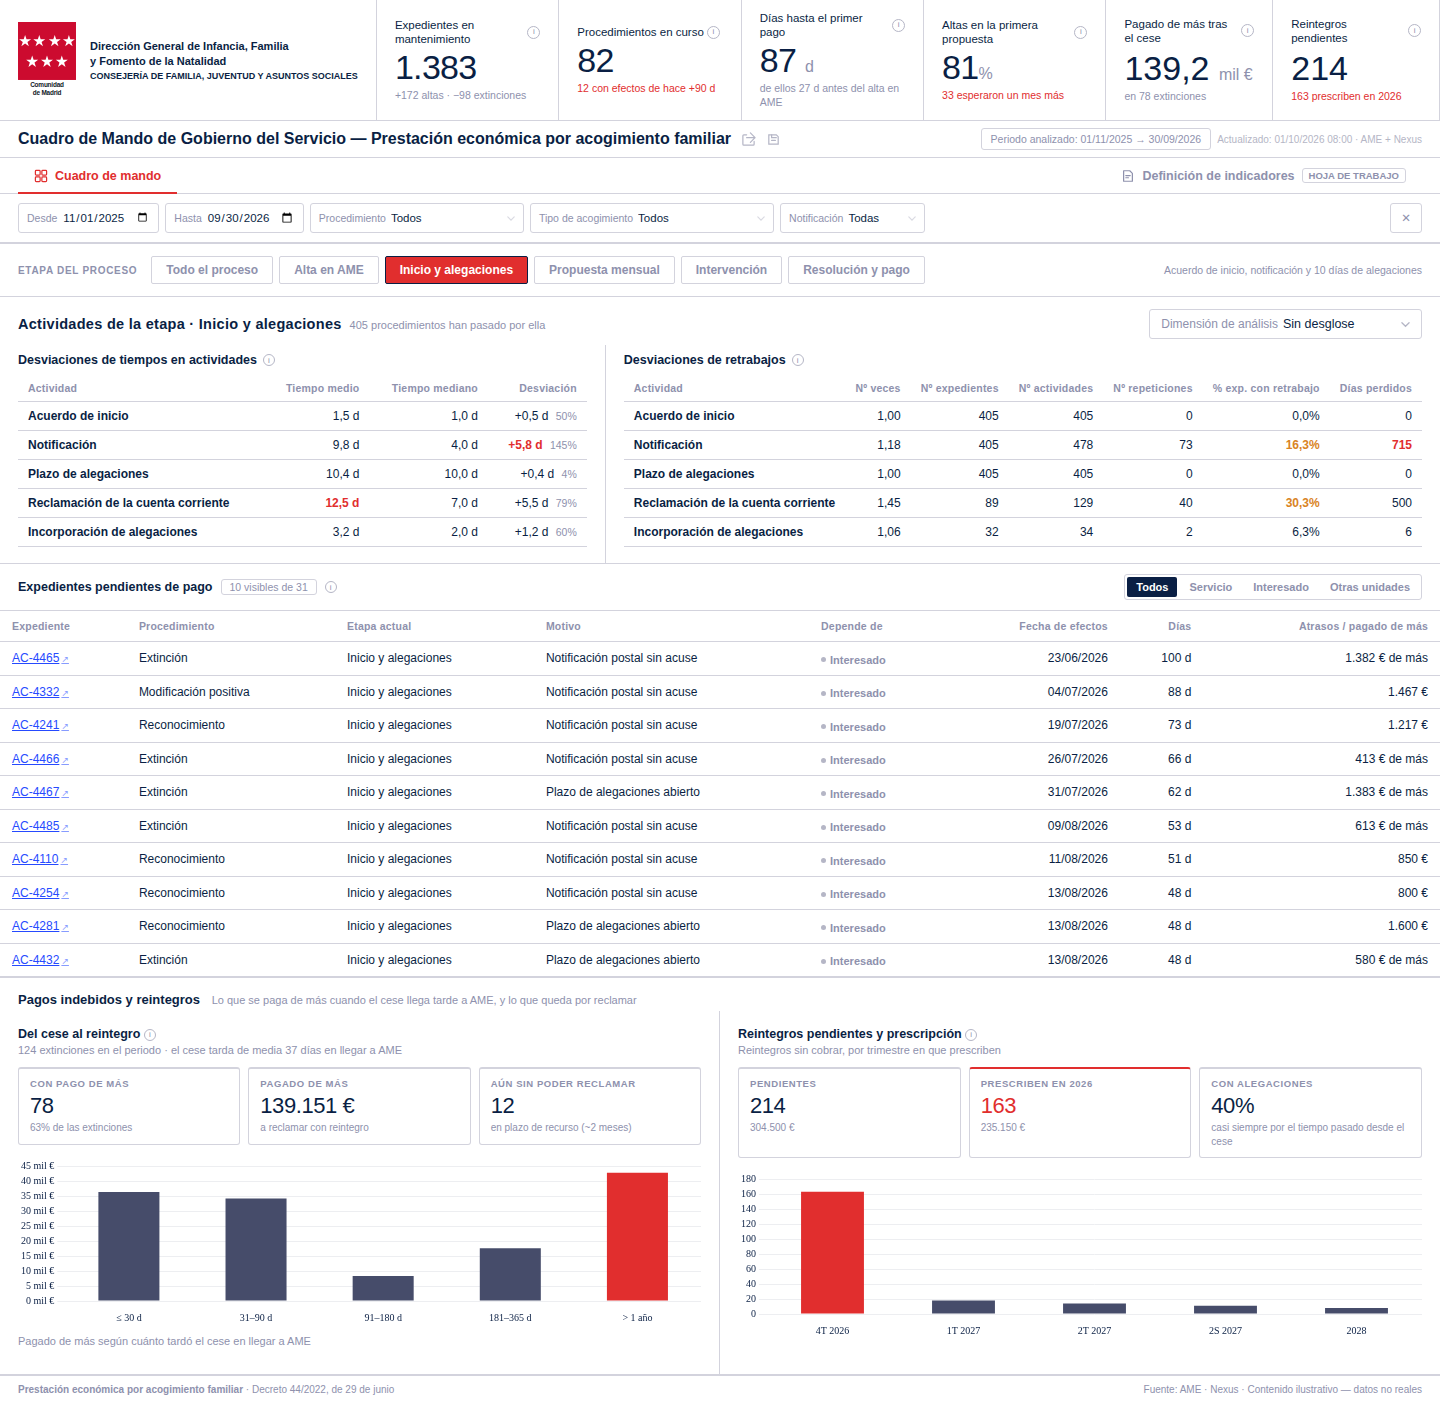
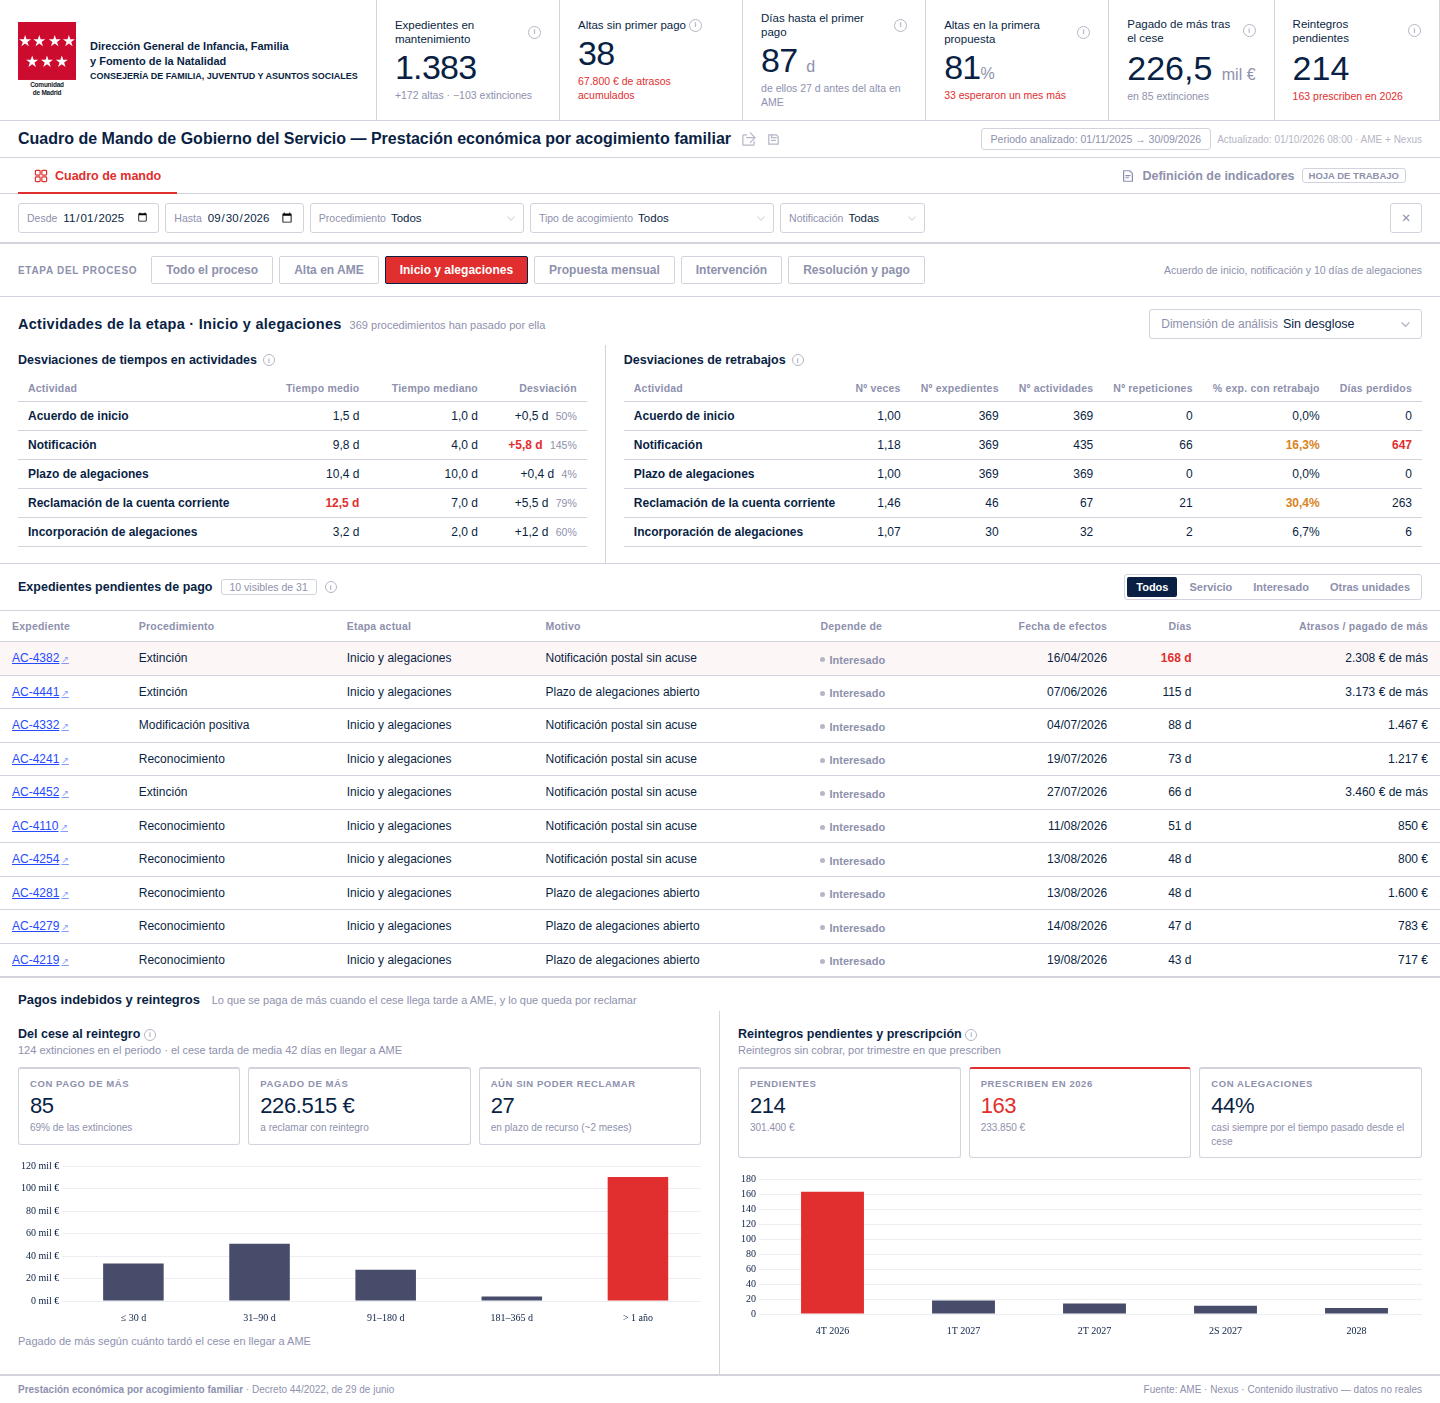
Acogimiento v2: auditoría (KPI de altas sin primer pago, actividades coherentes con el gráfico, reintegros en la propuesta, volúmenes del servicio)
Claude-Session: https://claude.ai/code/session_012PCcGQXYr4PR8xb2pBrhox

diff --git a/mockups/MockupAcogimiento_v2.html b/mockups/MockupAcogimiento_v2.html
@@ -1058,7 +1058,7 @@ const IMP={'Carácter general':500,'Carácter especial':1000,'Programa de urgenc
 const EXP=[];
 (function(){
   let id=4100;
-  const VOL={rec:210,mpos:46,mneg:28,ext:124};
+  const VOL={rec:210,mpos:24,mneg:12,ext:124};
   const T0=0, T1=Date.UTC(2025,10,1);
   Object.keys(VOL).forEach(proc=>{
     for(let i=0;i<VOL[proc];i++){
@@ -1108,7 +1108,7 @@ function limpiar(){ ['fProc','fTipo','fNot'].forEach(i=>$(i).value=''); $('fIni'
 /* ── cabecera ── */
 const TIP={
  'Expedientes en mantenimiento':'Expedientes que cobran la prestación cada mes sin ningún procedimiento abierto. Debajo, las altas y extinciones resueltas en el periodo.',
- 'Procedimientos en curso':'Reconocimientos, modificaciones y extinciones abiertos en AME a la fecha de corte. Debajo, los que tienen la fecha de efectos de hace más de 90 días: son los que más atrasos o pagos de más acumulan.',
+ 'Altas sin primer pago':'Reconocimientos ya en AME que todavía no han cobrado ninguna mensualidad. Debajo, los atrasos que acumulan desde su fecha de efectos: es lo que se pagará de golpe en la primera nómina y lo que descuadra el presupuesto.',
  'Días hasta el primer pago':'Días desde la fecha de efectos del acogimiento hasta el primer pago, en las altas ya pagadas. Debajo, cuántos de esos días pasaron antes de que el alta llegara a AME, que es la parte que graba Protección.',
  'Altas en la primera propuesta':'Altas que entraron en la primera propuesta mensual posible. Las demás esperaron un mes más, casi siempre porque la cuenta corriente no llegó antes del cierre.',
  'Pagado de más tras el cese':'Importe pagado entre la fecha de efectos del cese y su grabación en AME, en las extinciones del periodo. Es lo que después hay que reclamar con un reintegro.',
@@ -1121,14 +1121,14 @@ function renderHdr(P){
   const share={'Carácter general':.6,'Carácter especial':.13,'Programa de urgencia':.27};
   const mant=Math.round(1383*(f.tipo?share[f.tipo]:1));
   const altas=recFin.length, bajas=P.filter(e=>e.proc==='ext'&&e.fin).length;
-  const cur=P.filter(e=>!e.fin), viejos=cur.filter(e=>(CORTE-e.efectos)/DIA>90).length;
+  const pend=rec.filter(e=>!e.fin), atr=pend.reduce((a,e)=>a+(CORTE-e.efectos)/DIA/30*e.imp,0);
   const dias=recFin.length? recFin.reduce((a,e)=>a+e.t.reduce((x,y)=>x+y,0),0)/recFin.length : 0;
   const antes=recFin.length? recFin.reduce((a,e)=>a+e.t[0],0)/recFin.length : 0;
   const prim=recFin.length? recFin.filter(e=>!e.sinCuenta).length/recFin.length*100 : 0;
   const aplaz=recFin.filter(e=>e.sinCuenta).length;
   $('kpiGlobal').innerHTML=
     ks('Expedientes en mantenimiento',nfmt(mant),'na',`+${nfmt(altas)} altas · −${nfmt(bajas)} extinciones`)+
-    ks('Procedimientos en curso',nfmt(cur.length),viejos?'bad':'na',viejos?`${nfmt(viejos)} con efectos de hace +90 d`:'ninguno con efectos de hace +90 d')+
+    ks('Altas sin primer pago',nfmt(pend.length),pend.length?'bad':'na',pend.length?`${eur(Math.round(atr/100)*100)} de atrasos acumulados`:'')+
     ks('Días hasta el primer pago',dias?Math.round(dias)+' <span class="u">d</span>':'—','na',dias?`de ellos ${Math.round(antes)} d antes del alta en AME`:'')+
     ks('Altas en la primera propuesta',recFin.length?Math.round(prim)+'<span class="u">%</span>':'—',aplaz?'bad':'na',aplaz?`${nfmt(aplaz)} esperaron un mes más`:'');
   const ext=P.filter(e=>e.proc==='ext'), ind=ext.filter(e=>e.indeb>0);
@@ -1153,13 +1153,15 @@ const chT=new Chart($('cTiempo'),{type:'bar',data:{labels:TRAMOS,datasets:[
     scales:{x:{...axis,stacked:true,grid:{display:false},ticks:{...axis.ticks,maxRotation:0,autoSkip:false,font:{family:'Inter',size:9.5}}},
             y:{...axis,stacked:true,ticks:{...axis.ticks,callback:v=>v+' d'}}}}});
 const MESES=['Abr','May','Jun','Jul','Ago','Sep'], MES0=Date.UTC(2026,3,1);
-const PCOL={rec:SLA,mpos:GRY,mneg:GRY2,ext:TEAL};
+const PCOL={rec:SLA,mpos:GRY,mneg:GRY2,ext:TEAL,rein:ORA};
 const chP=new Chart($('cProp'),{data:{labels:MESES,datasets:[
   ...Object.keys(PROC_N).map(k=>({type:'bar',label:PROC_N[k],data:[],backgroundColor:PCOL[k],stack:'p',barPercentage:.6,order:2})),
+  {type:'bar',label:'Reintegro',data:[],backgroundColor:PCOL.rein,stack:'p',barPercentage:.6,order:2},
   {type:'line',label:'Altas que perdieron la propuesta anterior',data:[],borderColor:RED,backgroundColor:RED,borderWidth:2,pointRadius:3,tension:.3,order:1}]},
   options:{...baseOpts,interaction:{mode:'index',intersect:false},
     scales:{x:{...axis,stacked:true,grid:{display:false}},y:{...axis,stacked:true}}}});
 $('c2Leg').innerHTML=Object.keys(PROC_N).map(k=>`<div class="leg"><div class="leg-sq" style="background:${PCOL[k]};"></div>${PROC_N[k]}</div>`).join('')+
+  `<div class="leg"><div class="leg-sq" style="background:${PCOL.rein};"></div>Reintegro</div>`+
   `<div class="leg"><div class="leg-ln" style="background:${RED};"></div>Altas que perdieron la propuesta anterior</div>`;
 
 function renderAll(P){
@@ -1175,9 +1177,12 @@ function renderAll(P){
   /* propuestas de abril a septiembre */
   const mesDe=t=>{const d=new Date(t);return (d.getUTCFullYear()-2026)*12+d.getUTCMonth()-3;};
   Object.keys(PROC_N).forEach((k,d)=>{ chP.data.datasets[d].data=MESES.map((_,j)=>P.filter(e=>e.proc===k&&e.etapa>3&&mesDe(e.prop)===j).length); });
-  chP.data.datasets[4].data=MESES.map((_,j)=>P.filter(e=>e.sinCuenta&&e.etapa>3&&mesDe(e.prop)===j).length);
+  /* el reintegro se inicia en la propuesta siguiente a que venza el plazo de recurso de la extinción (~2 meses) */
+  const finDe=e=>e.alta+e.t.slice(1).reduce((a,b)=>a+b,0)*DIA;
+  chP.data.datasets[4].data=MESES.map((_,j)=>P.filter(e=>e.indeb>0&&e.fin&&mesDe(finDe(e)+60*DIA)===j).length);
+  chP.data.datasets[5].data=MESES.map((_,j)=>P.filter(e=>e.sinCuenta&&e.etapa>3&&mesDe(e.prop)===j).length);
   chP.update();
-  const ult=chP.data.datasets.slice(0,4).reduce((a,d)=>a+d.data[5],0);
+  const ult=chP.data.datasets.slice(0,5).reduce((a,d)=>a+d.data[5],0);
   $('c2Sub').textContent=`${ult} procedimientos en la propuesta de septiembre · cierre los primeros días de cada mes`;
 }
 
@@ -1210,17 +1215,17 @@ document.querySelectorAll('#respTabs button').forEach(b=>b.onclick=()=>{respKey=
 /* ── actividades por etapa ── */
 /* [actividad, tiempo medio, tiempo mediano, % de expedientes que pasan, veces por expediente, repeticiones por expediente afectado] */
 const ACT={
-  alta:[['Grabación del alta en AME (Protección)',34.0,9.0,1,1.00,1],['Aviso por correo al servicio',1.2,1.0,1,1.00,1],
+  alta:[['Grabación del alta en AME (Protección)',0,0,1,1.00,1,'t0'],['Aviso por correo al servicio',1.2,1.0,1,1.00,1],
         ['Revisión del expediente',2.6,2.0,1,1.12,1.3],['Recálculo manual del importe',1.8,1.0,.14,1.35,1.4]],
   inicio:[['Acuerdo de inicio',1.5,1.0,1,1.00,1],['Notificación',9.8,4.0,1,1.18,1.1],['Plazo de alegaciones',10.4,10.0,1,1.00,1],
-          ['Reclamación de la cuenta corriente',12.5,7.0,.22,1.45,1.5],['Incorporación de alegaciones',3.2,2.0,.08,1.05,1]],
-  propuesta:[['Expediente completo (borrador)',1.4,1.0,1,1.03,1],['Validación de terceros en Nexus',2.1,1.0,.55,1.08,4.0],
-             ['Generación del documento D',1.0,1.0,.55,1.00,1],['Espera al cierre de la propuesta',14.6,12.0,1,1.00,1],
-             ['Paso a la propuesta siguiente',30.0,30.0,.12,1.10,2.0]],
+          ['Reclamación de la cuenta corriente',12.5,7.0,.22,1.45,1.5,'rec'],['Incorporación de alegaciones',3.2,2.0,.08,1.05,1]],
+  propuesta:[['Expediente completo (borrador)',1.4,1.0,1,1.03,1],['Validación de terceros en Nexus',2.1,1.0,1,1.08,4.0,'rec'],
+             ['Generación del documento D',1.0,1.0,1,1.00,1,'rec'],['Espera al cierre de la propuesta',0,0,1,1.00,1,'t3'],
+             ['Espera a la propuesta siguiente (sin cuenta a tiempo)',30.0,30.0,1,1.22,1,'rec']],
   interv:[['Envío a Intervención',2.2,2.0,1,1.00,1],['Fiscalización del borrador',5.8,5.0,1,1.12,1.0],
           ['Actuación interesada',4.1,3.0,.12,1.20,1.3],['Corrección y reenvío',2.5,2.0,.12,1.10,1]],
   resol:[['Resolución definitiva (copia manual)',2.3,1.5,1,1.04,3.0],['Firma de la directora',1.6,1.0,1,1.00,1],
-         ['Notificación de la resolución',8.9,4.0,1,1.06,1.1],['Pago en nómina',3.1,3.0,.62,1.00,1]],
+         ['Notificación de la resolución (en paralelo al pago)',8.9,4.0,1,1.06,1.1],['Pago en nómina',3.1,3.0,.62,1.00,1]],
 };
 const ST={alta:{n:'Alta en AME',k:1,meta:'De la formalización en el pleno a la revisión del expediente en AME'},
   inicio:{n:'Inicio y alegaciones',k:2,meta:'Acuerdo de inicio, notificación y 10 días de alegaciones'},
@@ -1232,10 +1237,13 @@ const DIMV={tipo:[['Carácter general',.58,1,1],['Carácter especial',.12,1.2,1.
 function renderAct(){
   if(stageKey==='all') return;
   const dim=$('actDim').value, k=ST[stageKey].k;
-  const base=pob().filter(e=>e.etapa>=k).length||1;
+  const Pk=pob().filter(e=>e.etapa>=k), base=Pk.length||1, baseRec=Pk.filter(e=>e.proc==='rec').length||1;
+  const med=a=>{const v=a.slice().sort((x,y)=>x-y);return v.length?v[Math.floor(v.length/2)]:0;};
+  const tr=i=>{const g=Pk.filter(e=>e.etapa>i||i===0).map(e=>e.t[i]);return [g.length?g.reduce((x,y)=>x+y,0)/g.length:0, med(g)];};
   const rows=[];
-  ACT[stageKey].forEach(a=>{ (dim?DIMV[dim]:[['',1,1,1]]).forEach((d,j)=>{
-    const exp=Math.max(1,Math.round(base*a[3]*d[1])), veces=Math.max(1,1+(a[4]-1)*d[3]), act=Math.round(exp*veces), rep=act-exp;
+  ACT[stageKey].map(a=>{ if(a[6]==='t0'||a[6]==='t3'){ const [m,md]=tr(a[6]==='t0'?0:3); a=a.slice(); a[1]=m; a[2]=md; a[6]=''; } return a; })
+  .forEach(a=>{ (dim?DIMV[dim]:[['',1,1,1]]).forEach((d,j)=>{
+    const exp=Math.max(1,Math.round((a[6]==='rec'?baseRec:base)*a[3]*d[1])), veces=Math.max(1,1+(a[4]-1)*d[3]), act=Math.round(exp*veces), rep=act-exp;
     const afe=rep?Math.max(1,Math.min(exp,Math.round(rep/a[5]))):0;
     rows.push({a:a[0],d:d[0],first:j===0,tm:a[1]*d[2],tmd:a[2]*Math.min(d[2],1.1),exp,act,veces:act/exp,rep,pct:afe/exp*100,perd:Math.round(rep*a[1]*d[2])});
   });});
@@ -1306,7 +1314,7 @@ document.querySelectorAll('.tabb').forEach(b=>b.onclick=()=>{
 /* ── hoja de definición de indicadores ── */
 const DFILAS=[
  ['Expedientes en mantenimiento','Expedientes que cobran cada mes sin procedimiento abierto','Resolución de reconocimiento','Extinción','Listado de mantenimiento de AME',1],
- ['Procedimientos en curso','Reconocimientos, modificaciones y extinciones abiertos','Alta del procedimiento en AME','Resolución','—',1],
+ ['Altas sin primer pago','Reconocimientos en AME sin ninguna mensualidad cobrada, y sus atrasos','Alta en AME','Primer pago en nómina','Anexo I · importe de atrasos',1],
  ['Días hasta el primer pago','Días desde la fecha de efectos hasta el primer pago, en altas pagadas','Fecha de efectos del acogimiento','Primer pago en nómina','—',1],
  ['Días antes del alta en AME','Parte de esos días que pasa antes de que Protección grabe el alta','Fecha de efectos','Alta en AME','Comunicaciones del pleno',1],
  ['Altas en la primera propuesta','Altas que entran en la primera propuesta posible','Expediente completo','Propuesta mensual','Anexo I de la propuesta',1],
